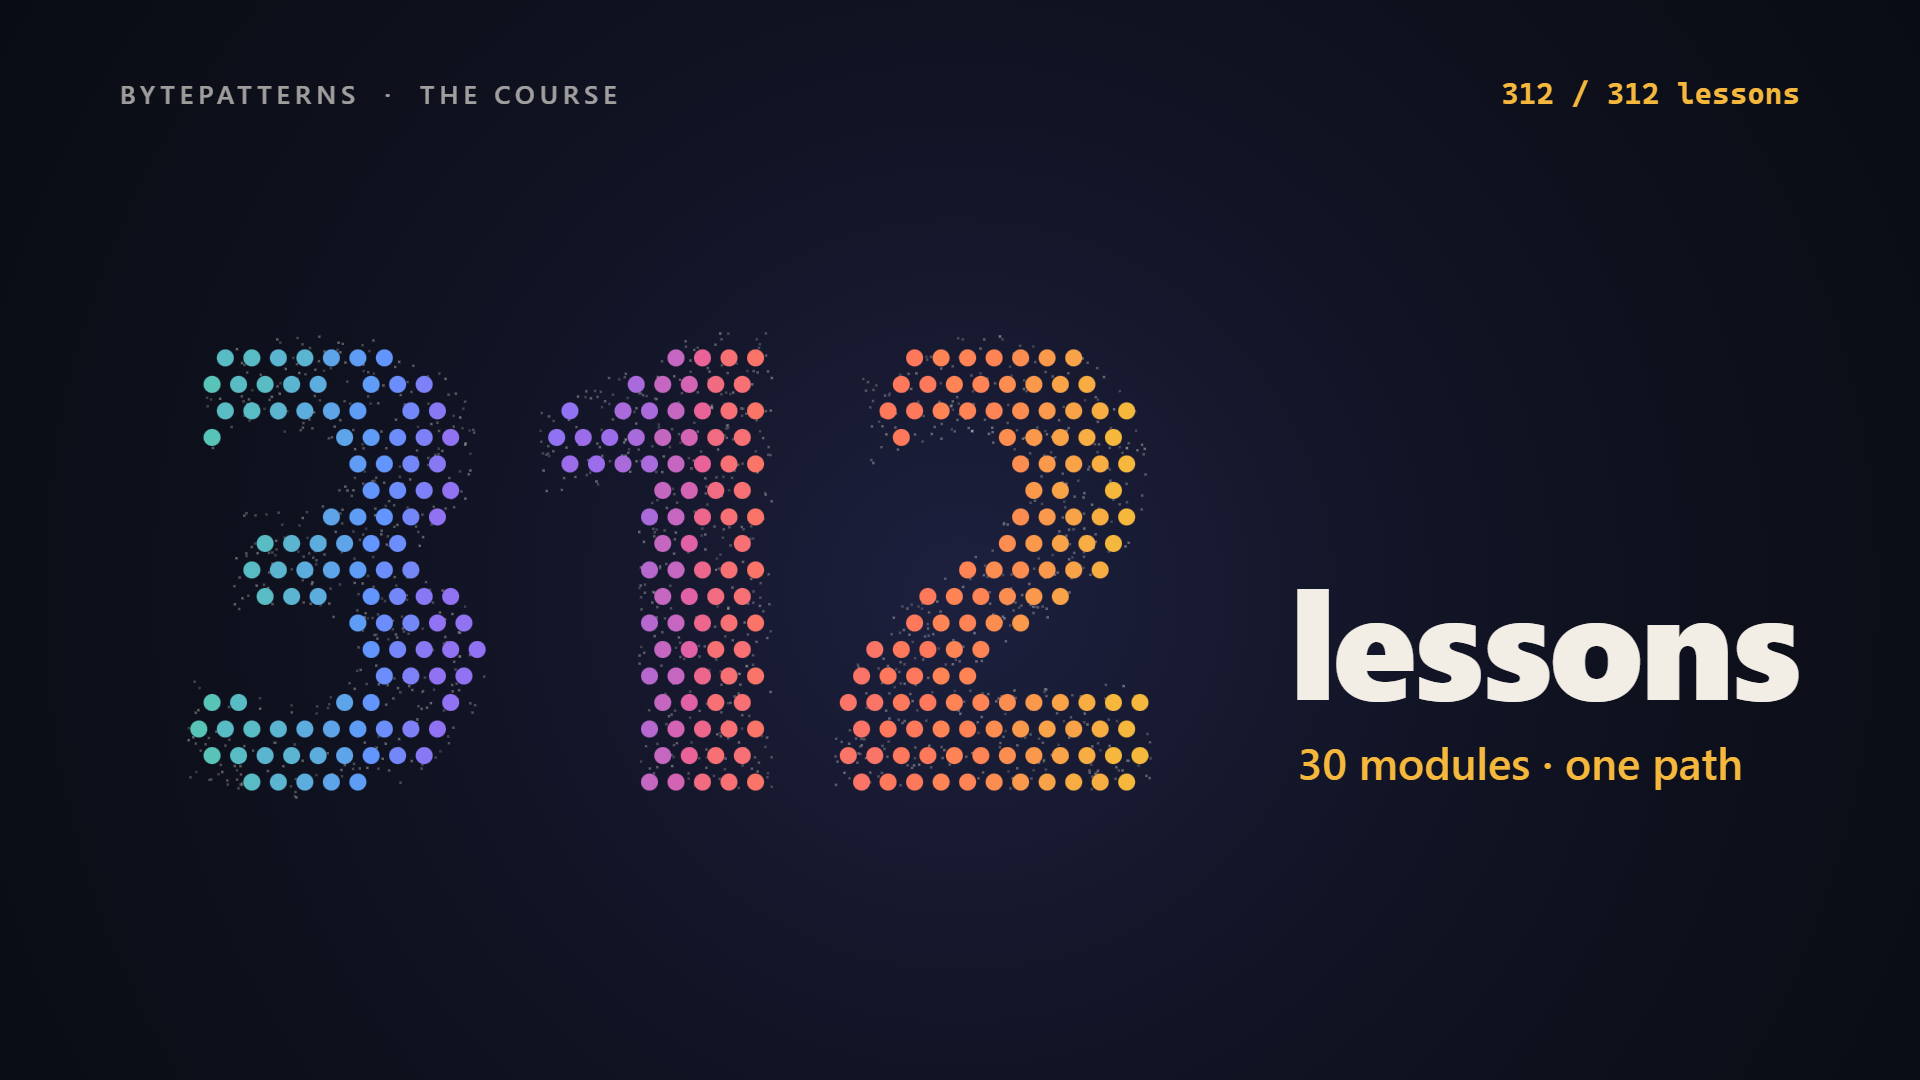
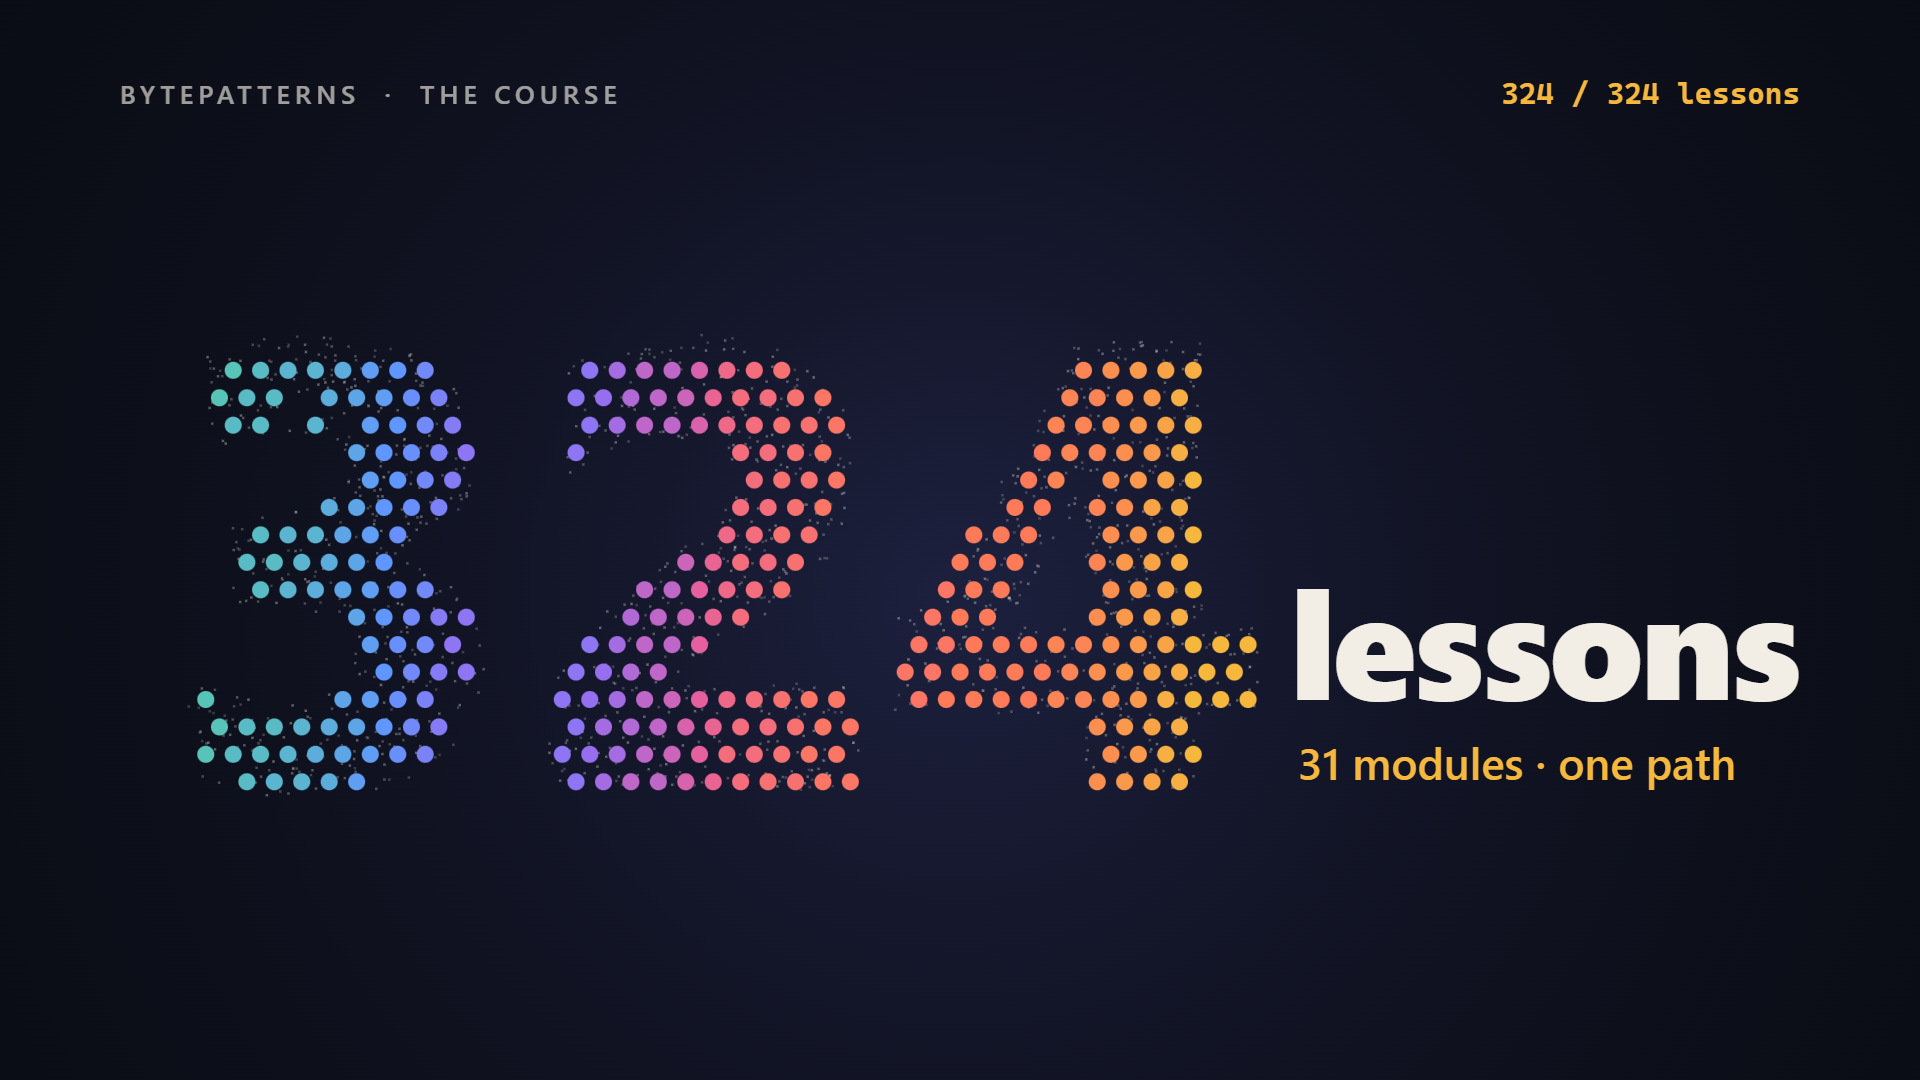
Lessons: 324 across 31 modules

diff --git a/projects/19-312-lessons/index.html b/projects/19-312-lessons/index.html
@@ -4,8 +4,8 @@
 <meta charset="utf-8">
 <meta name="viewport" content="width=device-width, initial-scale=1">
 <meta name="author" content="teambytepatterns">
-<meta name="description" content="Exactly 312 dots, one for every BytePatterns lesson, fly in and settle into the number 312, then sort themselves into the 30 modules they belong to.">
-<title>312 Lessons — motion-lab</title>
+<meta name="description" content="Exactly 324 dots, one for every BytePatterns lesson, fly in and settle into the number 324, then sort themselves into the 31 modules they belong to.">
+<title>324 Lessons — motion-lab</title>
 <style>
   /* Player chrome. The piece itself lives entirely in the canvas. */
   html, body { margin: 0; height: 100%; background: #000; overflow: hidden; }
@@ -17,16 +17,16 @@
 </style>
 </head>
 <body>
-<canvas id="stage" width="1920" height="1080" aria-label="Particles gather into the number 312, then re-sort into thirty columns, one per module"></canvas>
+<canvas id="stage" width="1920" height="1080" aria-label="Particles gather into the number 324, then re-sort into thirty-one columns, one per module"></canvas>
 <button id="sound" type="button">Click for sound</button>
 <script>
 'use strict';
 /* ==========================================================================
-   PIECE — 312 Lessons.
-   There are exactly 312 bright dots: one per lesson in the BytePatterns
-   course, grouped by the 30 modules they belong to (the counts below come
+   PIECE — 324 Lessons.
+   There are exactly 324 bright dots: one per lesson in the BytePatterns
+   course, grouped by the 31 modules they belong to (the counts below come
    from the lesson manifest). They drift in a flow, then land on points
-   sampled inside the glyphs "312" — module by module, so the number writes
+   sampled inside the glyphs "324" — module by module, so the number writes
    itself left to right. Then each dot flies to its module's column: the
    columns are the real module sizes, from 4 lessons to 25. A few thousand
    faint specks fill the glyphs around them; they are texture, not lessons.
@@ -84,11 +84,11 @@ const MODULES = [
   ['hash tables', 8], ['recursion', 8], ['backtracking', 5], ['greedy', 5], ['trees', 14], ['tries', 4], ['heaps', 7],
   ['two heaps & k-way', 4], ['graphs', 16], ['matrix & grid', 5], ['union-find', 4], ['intervals', 4], ['bit manipulation', 5],
   ['math & number theory', 5], ['dynamic programming', 20], ['system design', 17], ['system design cases', 20], ['ai & ml', 25],
-  ['low-level design', 15], ['concurrency', 15], ['sql', 15], ['behavioral', 12], ['aws', 12],
+  ['low-level design', 15], ['concurrency', 15], ['sql', 15], ['behavioral', 12], ['aws', 12], ['kubernetes', 12],
 ];
 const LESSONS = [];                                          // { m, j }: module index, index within the module
 MODULES.forEach(([, n], m) => { for (let j = 0; j < n; j++) LESSONS.push({ m, j }); });
-const NL = LESSONS.length, NM = MODULES.length;              // 312, 30
+const NL = LESSONS.length, NM = MODULES.length;              // 324, 31
 const MINM = Math.min(...MODULES.map(x => x[1])), MAXM = Math.max(...MODULES.map(x => x[1]));
 const COL = MODULES.map((_, m) => rampAt(m / (NM - 1)));
 const ND = 1500;                                             // faint specks (texture)
@@ -97,7 +97,7 @@ const ND = 1500;                                             // faint specks (te
 const T = { gather: 36, word: 214, sort0: 336, sort1: 410, back0: 468, back1: 516, end: 528 };
 
 // ---- sampling the glyphs, once per layout -----------------------------------------------
-/** L = { w, h, size, x, y }: draws "312" into a mask and returns NL lesson targets and ND speck targets. */
+/** L = { w, h, size, x, y }: draws "324" into a mask and returns NL lesson targets and ND speck targets. */
 function sampleGlyphs(L) {
   const m = document.createElement('canvas'); m.width = L.w; m.height = L.h;
   const g = m.getContext('2d', { willReadFrequently: true });
@@ -136,7 +136,7 @@ function makeScene(L) {
   // columns: module m at x, lesson j stacked upward
   S.K = LESSONS.map(({ m, j }) => [L.cx0 + m * L.cpitch, L.cy1 - j * L.dpitch]);
   // timings: lessons land in course order (rank), specks at seeded times
-  S.arr = LESSONS.map((_, i) => T.gather + 10 + i * 0.44);
+  S.arr = LESSONS.map((_, i) => T.gather + 10 + i * 0.424);   // 324 lessons land in the same span as before
   S.srt = LESSONS.map(({ m, j }) => T.sort0 + m * 1.4 + j * 0.5);
   S.bak = LESSONS.map((_, i) => T.back0 + (NL - 1 - i) * 0.05 + S.seeds[i].q * 8);
   return S;
@@ -207,7 +207,7 @@ function backdrop(g, w, h) {
 
 // ---- landscape picture ------------------------------------------------------------------
 const LAY_L = { w: W, h: H, size: 640, x: 150, y: 790, track: -18, r: 8.5, sp: 2.4, arc: 90,
-  cx0: 150, cpitch: 56, cy1: 900, dpitch: 22 };
+  cx0: 150, cpitch: 54, cy1: 900, dpitch: 22 };
 let SL = null;
 function draw(f) {
   if (!SL) SL = makeScene(LAY_L);
@@ -239,14 +239,14 @@ function draw(f) {
   {
     const [al, dy] = env(f, T.sort1 - 20, T.back0 + 6, 14, 10);
     text(ctx, `${NM} modules`, 116, 290 + dy, { size: 110, weight: 850, color: C.paper, spacing: -3, alpha: al * a });
-    text(ctx, `${MINM} to ${MAXM} lessons each, from Big-O to system design`, 122, 360 + dy, { size: 40, weight: 500, color: C.dim, alpha: al * a });
+    text(ctx, `${MINM} to ${MAXM} lessons each, from Big-O to Kubernetes`, 122, 360 + dy, { size: 40, weight: 500, color: C.dim, alpha: al * a });
     MODULES.forEach(([, cnt], m) => {
       const k = E.outCubic(prog(f, SL.srt[LESSONS.findIndex(q => q.m === m)] + 30, SL.srt[LESSONS.findIndex(q => q.m === m)] + 44)) * (1 - E.inCubic(prog(f, T.back0 - 4, T.back0 + 6)));
       text(ctx, String(cnt), LAY_L.cx0 + m * LAY_L.cpitch, LAY_L.cy1 - (cnt - 1) * LAY_L.dpitch - 26, { size: 28, weight: 800, fam: MONO, color: `rgb(${COL[m].join(',')})`, align: 'center', alpha: k * a });
     });
     const k = E.outCubic(prog(f, T.sort1 - 10, T.sort1 + 8)) * (1 - E.inCubic(prog(f, T.back0 - 4, T.back0 + 6))) * a;
     text(ctx, 'big-o', LAY_L.cx0 - 12, 950, { size: 28, weight: 600, color: C.dim, alpha: k });
-    text(ctx, 'aws', LAY_L.cx0 + (NM - 1) * LAY_L.cpitch + 12, 950, { size: 28, weight: 600, color: C.dim, align: 'right', alpha: k });
+    text(ctx, 'kubernetes', LAY_L.cx0 + (NM - 1) * LAY_L.cpitch + 12, 950, { size: 28, weight: 600, color: C.dim, align: 'right', alpha: k });
     text(ctx, 'ai & ml: 25', LAY_L.cx0 + 24 * LAY_L.cpitch, 990, { size: 28, weight: 600, color: C.dim, align: 'center', alpha: k });
   }
   if (endK > 0) {
@@ -443,7 +443,7 @@ function vChime(ac, dest, at, freq, vol = 0.08) {
 }
 
 /* VERTICAL CUT — this piece */
-// The same particles on a portrait stage: "312" across the safe area, the 30
+// The same particles on a portrait stage: "324" across the safe area, the 31
 // module columns narrower and shorter under the type.
 const VSEG = [
   { at: 0, src: 20, len: 190 },                              // hook, the lessons land
@@ -453,7 +453,7 @@ const VSEG = [
 ];
 const VFR = 540, VEND = VFR - 60;
 const LAY_V = { w: VW, h: VH, size: 400, x: 96, y: 1050, track: -12, r: 6.2, sp: 2.2, arc: 60,
-  cx0: 110, cpitch: 25.5, cy1: 1180, dpitch: 13.5 };
+  cx0: 110, cpitch: 25, cy1: 1180, dpitch: 13.5 };
 let SV = null;
 function vDraw(v) {
   if (!SV) SV = makeScene(LAY_V);
@@ -475,7 +475,7 @@ function vDraw(v) {
     const [al, dy] = vEnv(v, 330, VEND + 2, 10, 8);
     vText(`${NM} modules`, VL, 440 + dy, { size: 104, weight: 850, color: C.paper, spacing: -3, alpha: al });
     vText(`${MINM} to ${MAXM} lessons each`, VL, 510 + dy, { size: 40, weight: 500, color: C.dim, alpha: al });
-    vText('from Big-O to system design', VL, 1300 + dy, { size: 36, weight: 600, color: C.amber, alpha: al * (1 - prog(f, T.back0, T.back0 + 10)), max: VR - VL });
+    vText('from Big-O to Kubernetes', VL, 1300 + dy, { size: 36, weight: 600, color: C.amber, alpha: al * (1 - prog(f, T.back0, T.back0 + 10)), max: VR - VL });
   }
   if (v >= VEND) vEndCard(v - VEND, { title: `${NL} Lessons`, line: `${NM} modules · one dot per lesson`,
     ink: C.paper, dim: 'rgba(242,238,230,0.72)', accent: C.amber, scrim: C.bgRGB, a: 0.84 });
@@ -483,7 +483,7 @@ function vDraw(v) {
 }
 
 window.__motion = {
-  title: '312 Lessons',
+  title: `${NL} Lessons`,
   description: `Exactly ${NL} dots, one for every BytePatterns lesson, fly in and settle into the number ${NL}, then sort themselves into the ${NM} modules they belong to.`,
   fps: FPS, width: W, height: H, frames: FRAMES,
   poster: 300,

diff --git a/README.md b/README.md
@@ -247,13 +247,13 @@ Click a preview to open the piece live in your browser (click once more there fo
 </tr>
 <tr>
 <td width="72%" valign="top">
-<a href="https://bytepatterns.github.io/motion-lab/projects/19-312-lessons/"><img src="out/19-312-lessons.gif" width="100%" alt="312 Lessons — animated preview"></a>
-<br><b>19 · 312 Lessons</b> <sub>20 s</sub>
-<br>Exactly 312 dots, one for every BytePatterns lesson, fly in and settle into the number 312, then sort themselves into the 30 modules they belong to.
+<a href="https://bytepatterns.github.io/motion-lab/projects/19-312-lessons/"><img src="out/19-312-lessons.gif" width="100%" alt="324 Lessons — animated preview"></a>
+<br><b>19 · 324 Lessons</b> <sub>20 s</sub>
+<br>Exactly 324 dots, one for every BytePatterns lesson, fly in and settle into the number 324, then sort themselves into the 31 modules they belong to.
 <br><sub><a href="https://bytepatterns.github.io/motion-lab/projects/19-312-lessons/">open in browser</a> · <a href="out/19-312-lessons.png">still</a> · <a href="projects/19-312-lessons/index.html">source</a></sub>
 </td>
 <td width="28%" valign="top">
-<a href="https://bytepatterns.github.io/motion-lab/projects/19-312-lessons/?variant=vertical"><img src="out/19-312-lessons.vertical.gif" width="100%" alt="312 Lessons — vertical cut, animated preview"></a>
+<a href="https://bytepatterns.github.io/motion-lab/projects/19-312-lessons/?variant=vertical"><img src="out/19-312-lessons.vertical.gif" width="100%" alt="324 Lessons — vertical cut, animated preview"></a>
 <br><sub>9:16 · 18 s</sub>
 <br><sub><a href="https://bytepatterns.github.io/motion-lab/projects/19-312-lessons/?variant=vertical">open</a> · <a href="out/19-312-lessons.vertical.png">still</a></sub>
 </td>
